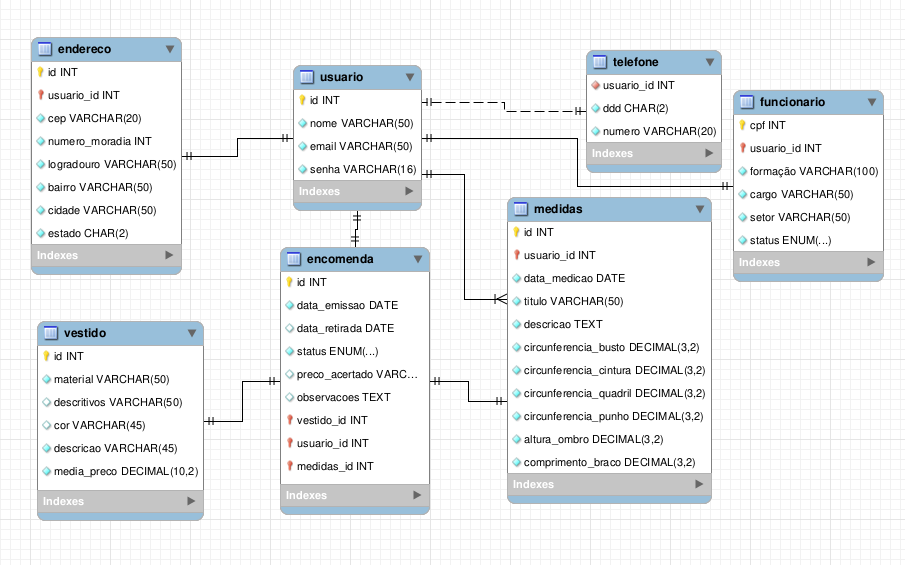
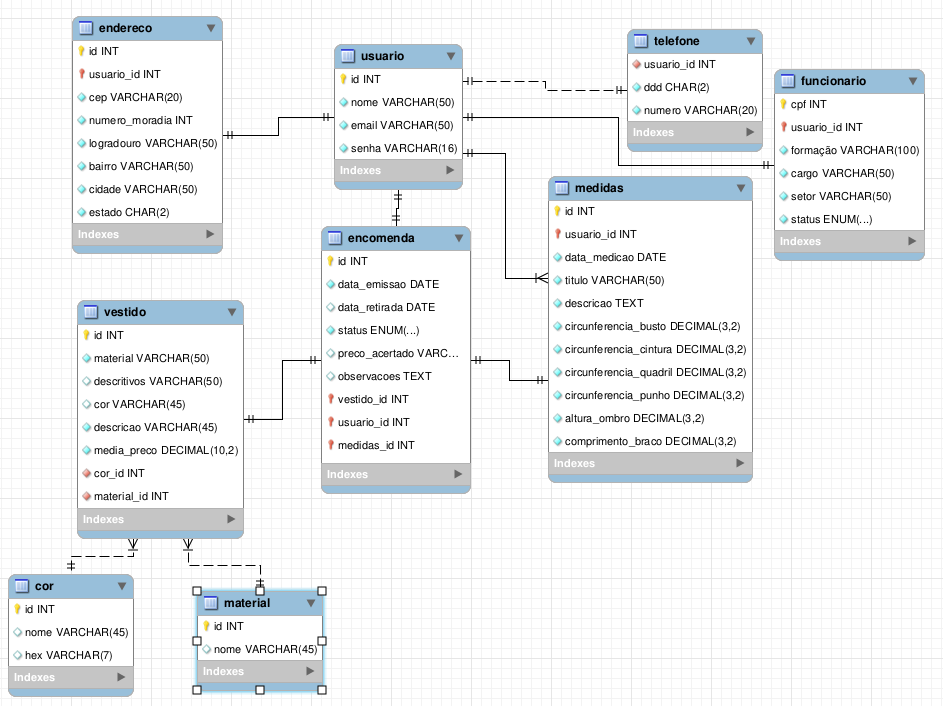
Update

diff --git a/README.md b/README.md
@@ -3,10 +3,11 @@
 ## Problematização
 
 ### Descrição do Projeto
-Belíssima, uma loja fictícia de vestidos sob encomenda, precisa de um meio para organizar seus pedidos. O projeto é desenvolvido para a disciplina de Projeto Integrador III, a fim de promover a divulgação e incentivo da pequena empresa, fortalecendo o setor econômico da região onde ela está localizada: Joinville e periféricos. 
+Belíssima, uma loja fictícia de vestidos sob encomenda, precisa de um meio para organizar seus pedidos. O projeto é desenvolvido para a disciplina de Projeto Integrador III, a fim de promover a divulgação e incentivo da pequena empresa, fortalecendo o setor econômico da região onde ela está localizada: Joinville e periféricos. Baseada em duas interfaces, o sistema direciona para o cliente uma de amostragem, de busca e de seleção. Para o funcionário, ela deve ser de controle dos vestidos, dos clientes e dos pedidos.
 
 ### Situação Problema
-A loja precisa de um sistema capaz de listar os produtos a serem encomendados para o usuário e servir como instrumento de gestão simples para funcionários sem experiência na área administrativa e/ou logística.
+A loja fictícia precisa de um sistema capaz de listar os produtos a serem encomendados para o usuário e servir como instrumento de gestão simples para funcionários sem experiência na área administrativa e/ou logística. Nas páginas iniciais do site, os vestidos são expostos aos clientes para que estes selecionem aqueles que mais os agradam, customizando a cor e selecionando suas medidas corporais. O usuário-cliente terá, em sua página de perfil, local para cadastrar as medidas corporais, além das informações pessoais e dos itens encomendados na loja. Para o usuário-funcionário, os vestidos encomendados por todos os usuários serão expostos conforme os dias da semana em que houve alguma alteração no status da encomenda, permitindo o gerenciamento eficaz. Na mesma página, o lucro obtido é mostrado graficamente. O funcionário também tem a função de cadastro e alteração dos vestidos e de novos funcionários.
+
 
 ### Descrição da Proposta
 A proposta é desenvolver um sistema de fácil acesso com uma parte universal para os clientes poderem analisar os vestidos em categorias ou de modo livre, uma área de exposição de cada vestido com opções de encomenda, fotos, tamanhos, etc; e uma área exclusiva aos funcionários que disponibiliza os vestidos encomendados, seu respectivo cliente e personalizações, bem como o histórico em estágios de encomendado, pronto e entregue.
@@ -14,38 +15,47 @@ A proposta é desenvolver um sistema de fácil acesso com uma parte universal pa
 ## Documentação
 
 RF001 - O sistema deve manter Usuário\
-RN001 - Os dados de Usuário são: CPF, nome, email, telefone, gênero, nascimento, endereço\
-RN002 - Usuário deve ser a generalização para Cliente e Funcionário
+RN001 - Os dados de Usuário são: id do usuário, nome, e-mail, senha\
+RN002 - Usuário pode ser Funcionário\
+RN003 - Usuário pode cadastrar encomenda\
+RN004 - Usuário pode excluir encomenda somente se seu status for 0\
+RN005 - Usuário pode verificar informações de sua encomenda\
+RN006 - Usuário pode efetuar cadastros e alterações somente se estiver com login ativo\
 
-RF002 - O sistema deve manter Cliente\
-RN003 - Cliente deve ser especialização parcial de Usuário\
-RN004 - Os dados adicionais de Cliente são: código do cliente, encomendas\
-RN005 - Cliente pode cadastrar e excluir encomenda\
-RN006 - Cliente pode verificar informações de sua encomenda
-
-RF003 - O sistema deve manter Funcionário\
-RN007 - Funcionário deve ser especialização parcial de Usuário\
-RN008 - Os dados adicionais de Funcionário são: código do funcionário, formação, cargo e setor\
+RF002 - O sistema deve manter Funcionário\
+RN007 - Funcionário deve ser Usuário\
+RN008 - Os dados adicionais de Funcionário são: id do usuário, CPF do funcionário, formação, cargo, setor, status\
 RN009 - Funcionário deve ter acesso a todas as encomendas, podendo pesquisar por status, cliente e ordem cronológica de emissão\
 RN010 - Funcionário pode cadastrar, alterar e excluir vestido\
-RN011 - Funcionário pode mudar status de encomenda
+RN011 - Funcionário pode mudar status e preço acertado de encomenda\
 
-RF004 - O sistema deve manter Telefone\
-RN012 - Telefone deve ser dependente de Usuário
+RF003 - O sistema deve manter Telefone\
+RN012 - Os dados de Telefone são: id do usuário, DDD, número de telefone\
+RN013 - Telefone deve ser dependente de Usuário\
 
-RF005 - O sistema deve manter Endereço\
-RN013 - Os dados do Endereço são: código do endereço, CEP, número da moradia, rua, bairro, cidade, estado\
-RN014 - Endereço se relaciona com Usuário
+RF004 - O sistema deve manter Endereço\
+RN014 - Os dados do Endereço são: id do endereço, id do usuário, CEP, número da moradia, logradouro, bairro, cidade, estado\
 
-RF006 - O sistema deve manter Vestido\
-RN015 - Os dados de Vestido são: código do vestido, nome, estilo, cor, descrição, média de preço
+RF005 - O sistema deve manter Vestido\
+RN015 - Os dados de Vestido são: id do vestido, id material, descritivos, id cor, descrição, média de preço\
 
-RF007 - O sistema deve manter Encomenda\
-RN016 - Os dados são: código da encomenda, data de emissão, status, cliente, vestido, tamanho
+RF006 - O sistema deve manter Encomenda\
+RN016 - Os dados são: id da encomenda, data de emissão, data de retirada, status, id do usuário, id do vestido, id das medidas, observações, preço acertado\
+
+RF007 - O sistema deve manter Material\
+RN017 - Os dados são: id de Material, nome\
+
+RF008 - O sistema deve manter Cor\
+RN018 - Os dados são: id de Cor, nome, código hex\
+
+RF009 - O sistema deve manter Medidas\
+RN019 - Os dados são: id de Medidas, id do usuário, data da medição, título, descrição, circunferência do busto, circunferência da cintura,circunferência do quadril, circunferência do punho, altura do ombro, comprimento do braço (semi envergado)\
 
 RNF001 - O sistema deve ser responsivo\
 RNF002 - O front-end deve ser desenvolvido em VueJS\
-RNF003 - O back-end deve ser desenvolvido em Django
+RNF003 - O back-end deve ser desenvolvido em Django\
+RNF004 - O sistema deve ter uma Progressive Web App\
+
 
 ## Modelagem
 
@@ -53,13 +63,17 @@ RNF003 - O back-end deve ser desenvolvido em Django
 
 ## Alunos
 - [Ester dos Santos Antunes](https://github.com/antuneseds)
-- [Renaa da Silva de Lima](https://github.com/ReehLimas)
+- [Renata da Silva de Lima](https://github.com/ReehLimas)
 - [Ruama Bernardes Raich](https://github.com/bernardesraischruama)
 - [Vinícius Rech](https://github.com/ViniRech)
 - [Vitória Fernanda Nicolau Padilha](https://github.com/fernandapadilha)
   
 ## Turma
 - 3INFO1
+
+## Professores
+- [Eduardo da Silva](https://github.com/eduardo-da-silva)
+- [Marco Andre Lopes Mendes](https://github.com/marrcandre)
 
 ## Projetos
 - Front-End: [Repositório](https://github.com/projeto-belissima/front-end.git) e [Publicação](https://front-end-pi-ten.vercel.app/)
